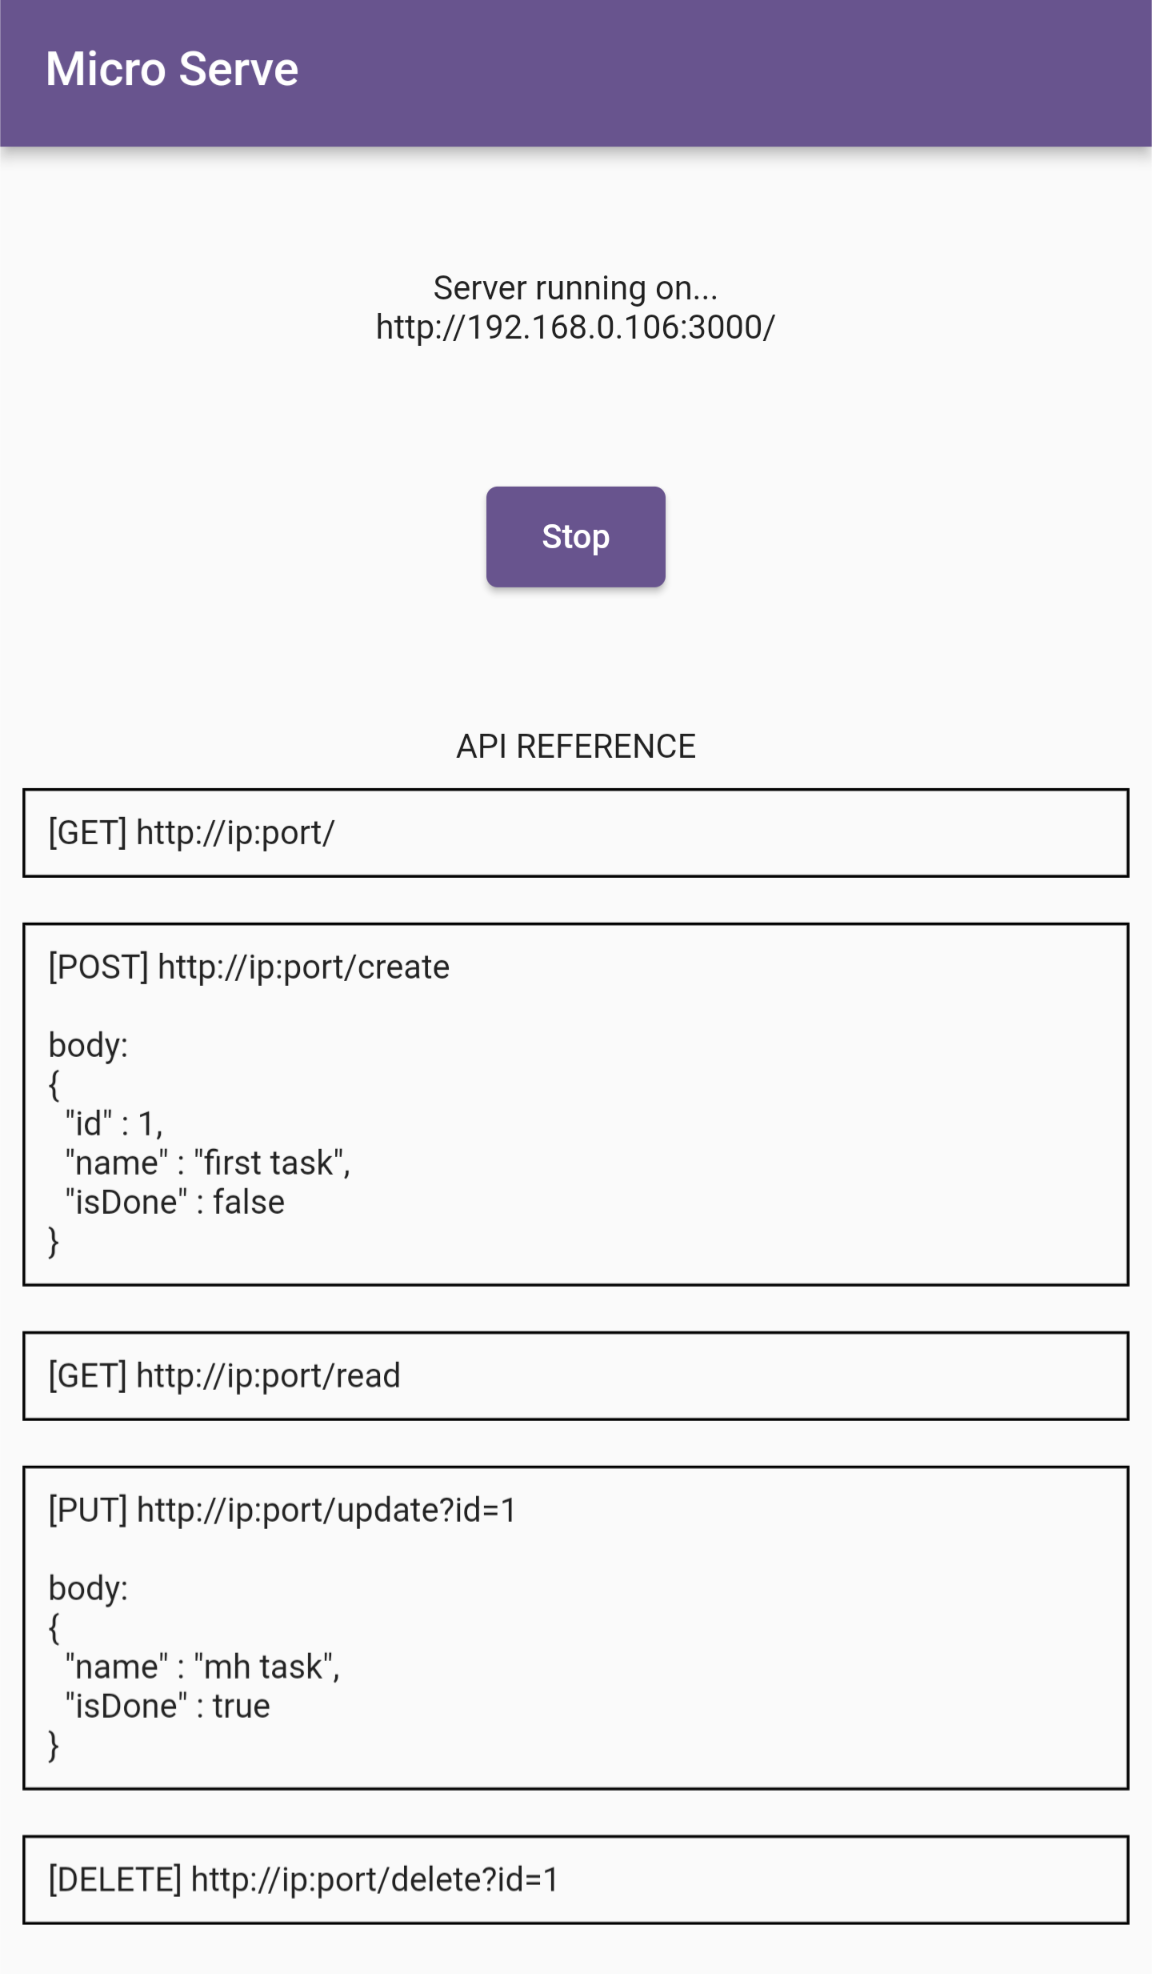
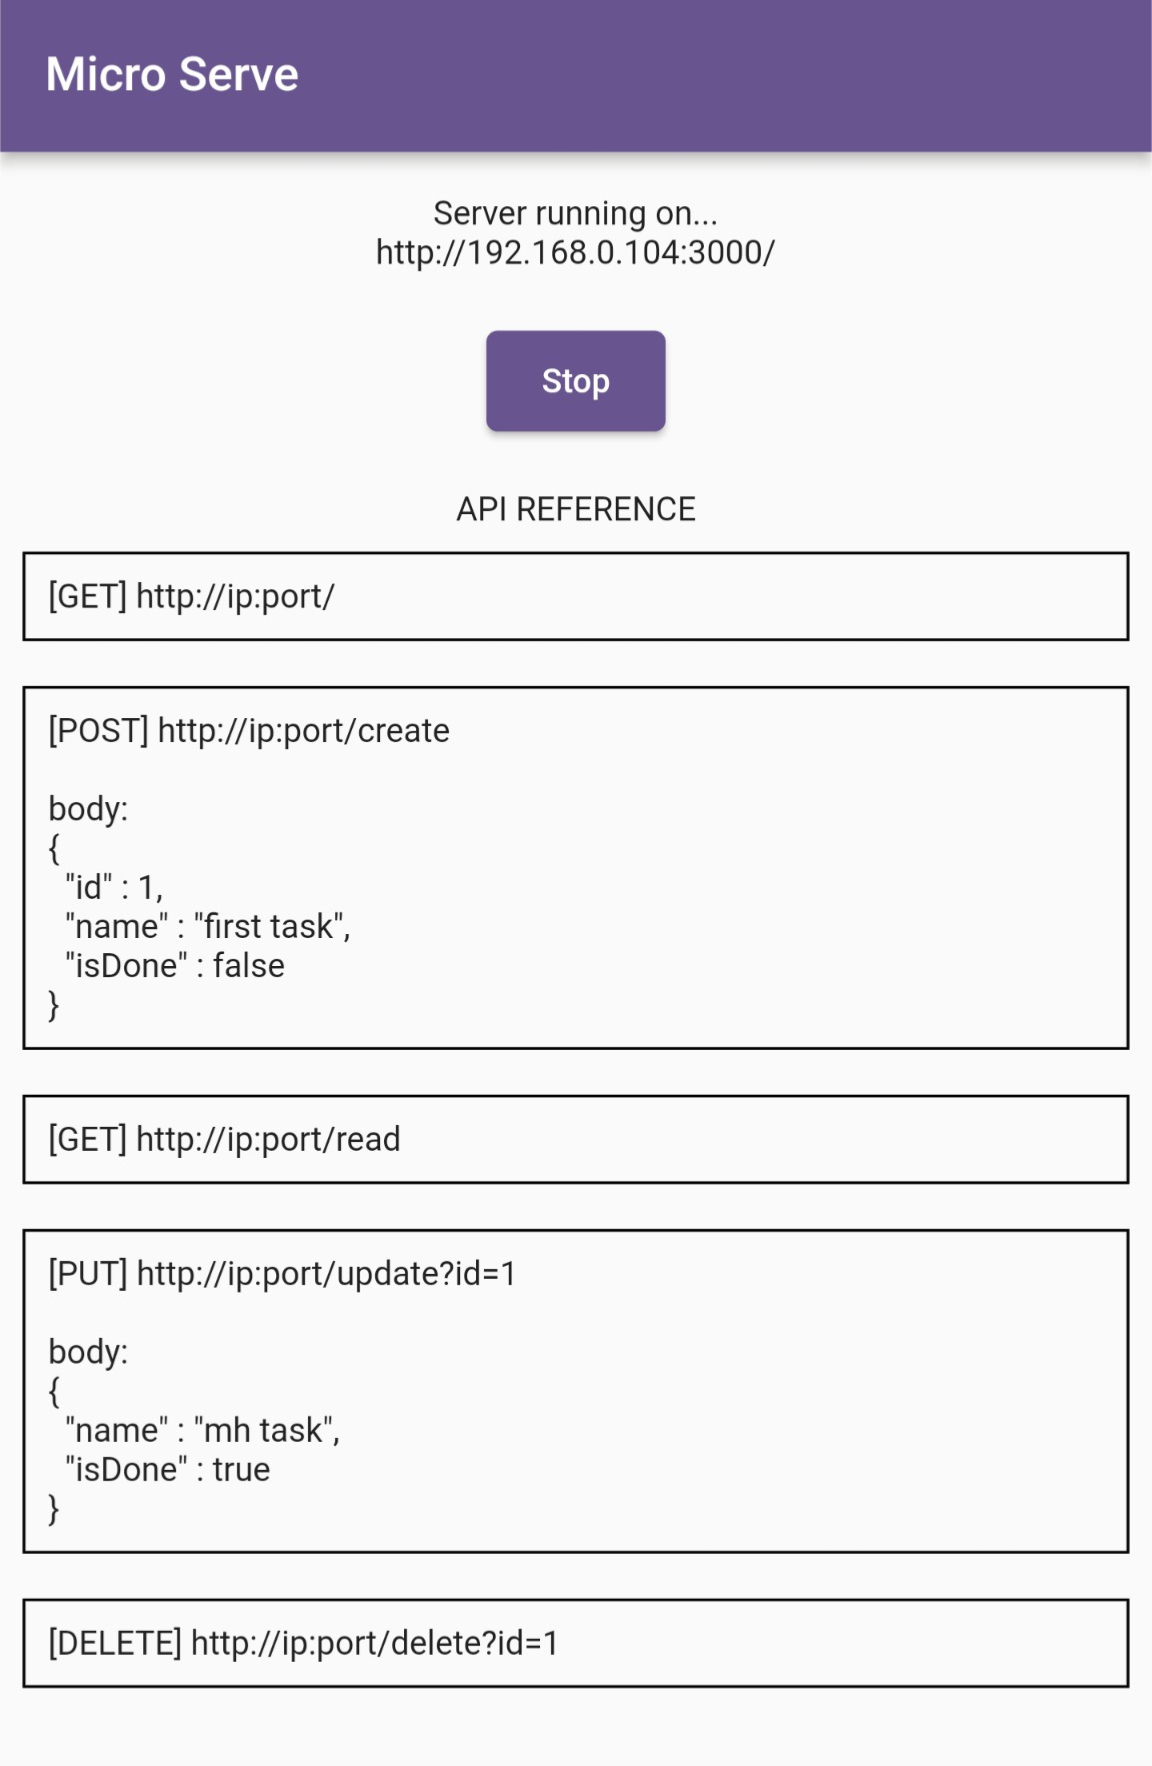
remove unnecessary widget from examle/lib/main

diff --git a/example/lib/main.dart b/example/lib/main.dart
@@ -173,7 +173,7 @@ class _MyHomePageState extends State<MyHomePage> {
       body: Column(
         children: [
           Flexible(
-            flex: 2,
+            flex: 1,
             child: Column(
               mainAxisAlignment: MainAxisAlignment.spaceEvenly,
               children: [
@@ -191,18 +191,17 @@ class _MyHomePageState extends State<MyHomePage> {
             ),
           ),
           Flexible(
-            flex: 5,
-            child: SingleChildScrollView(
-              child: Column(
-                children: [
-                  const Text("API REFERENCE"),
-                  _textWidget(welcome),
-                  _textWidget(createTask),
-                  _textWidget(readTasks),
-                  _textWidget(updateTask),
-                  _textWidget(deleteTask),
-                ],
-              ),
+            flex: 4,
+            child: Column(
+              mainAxisAlignment: MainAxisAlignment.center,
+              children: [
+                const Text("API REFERENCE"),
+                _textWidget(welcome),
+                _textWidget(createTask),
+                _textWidget(readTasks),
+                _textWidget(updateTask),
+                _textWidget(deleteTask),
+              ],
             ),
           ),
         ],
